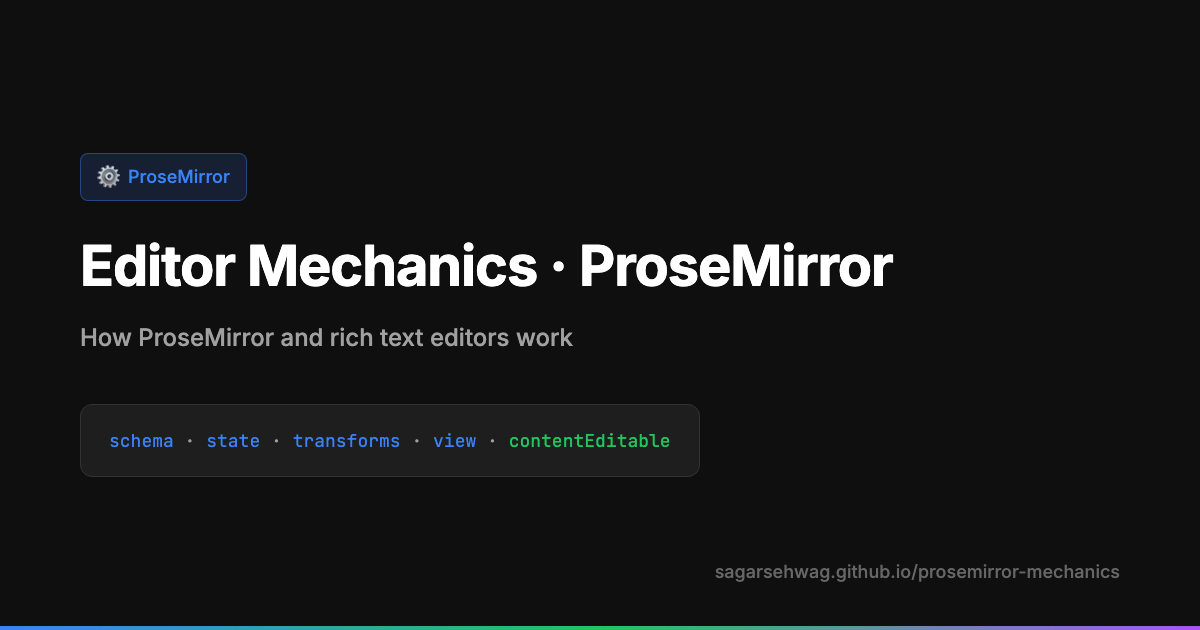
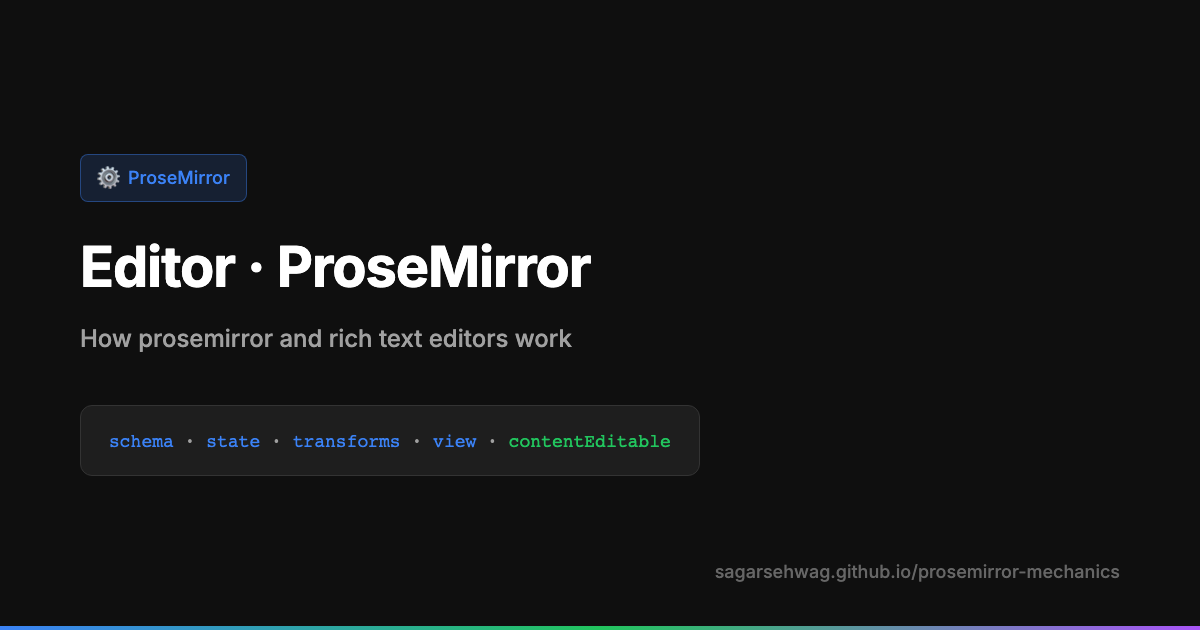
Rename OG title to Editor.ProseMirror, rebuild image
Made-with: Cursor

diff --git a/scripts/og-image.html b/scripts/og-image.html
@@ -3,7 +3,7 @@
   <head>
     <meta charset="UTF-8" />
     <meta name="viewport" content="width=1200, height=630" />
-    <title>Editor Mechanics · ProseMirror - OG Image</title>
+    <title>Editor.ProseMirror - OG Image</title>
     <link rel="preconnect" href="https://fonts.googleapis.com" />
     <link rel="preconnect" href="https://fonts.gstatic.com" crossorigin />
     <link
@@ -100,8 +100,8 @@
   </head>
   <body>
     <div class="badge"><span>⚙</span>ProseMirror</div>
-    <h1>Editor Mechanics · ProseMirror</h1>
-    <p class="subtitle">How ProseMirror and rich text editors work</p>
+    <h1>Editor · ProseMirror</h1>
+    <p class="subtitle">How prosemirror and rich text editors work</p>
     <div class="code-block">
       <span class="key">schema</span> · <span class="key">state</span> ·
       <span class="key">transforms</span> · <span class="key">view</span> ·
